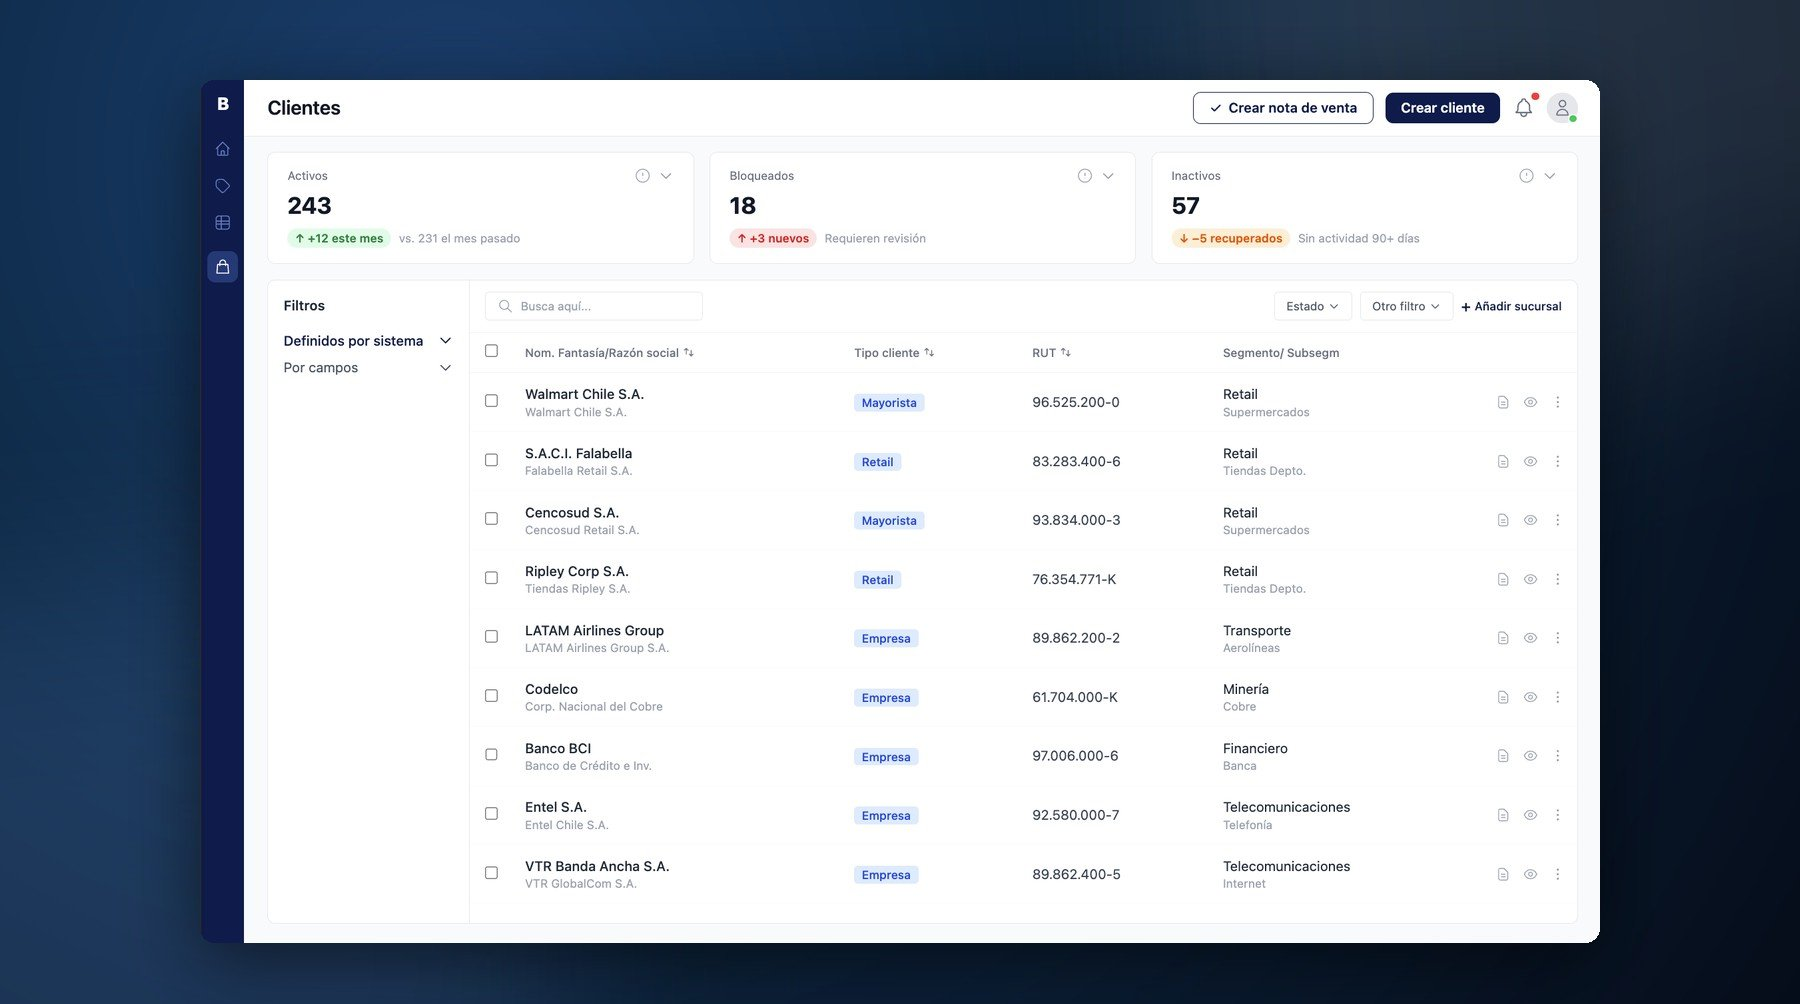
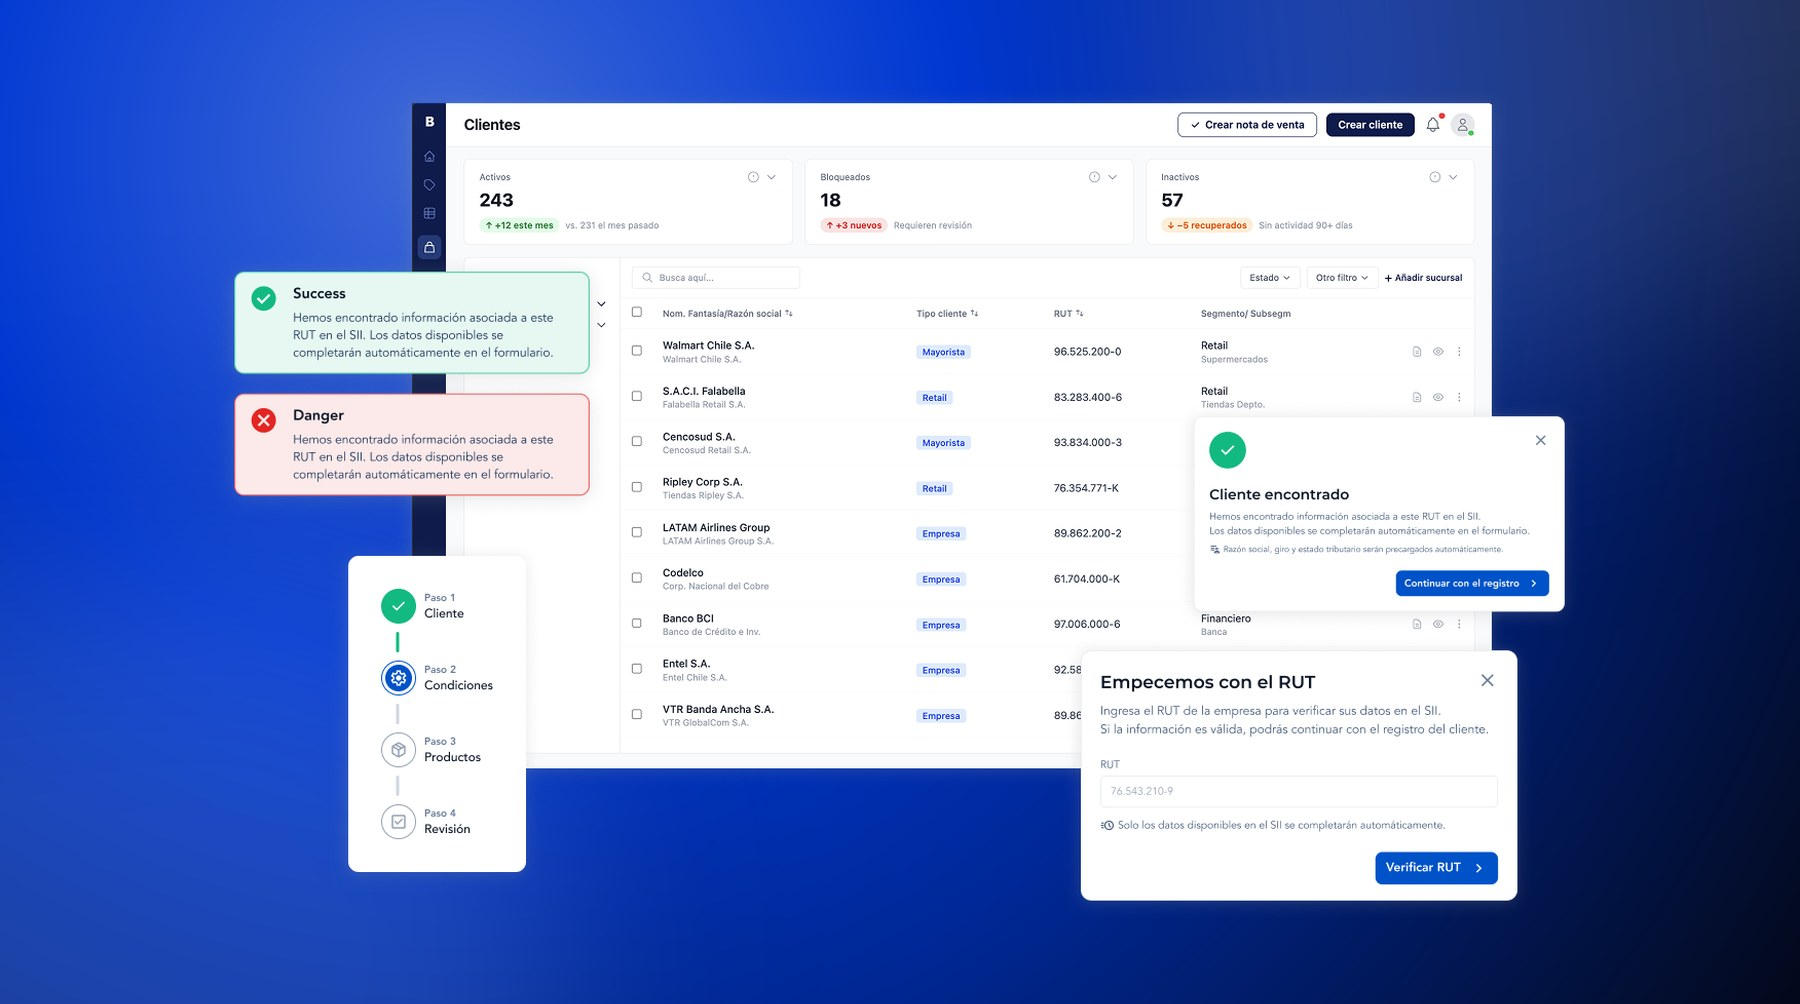
Give Bañados its own vivid blue gradient, distinct from AIEP
Replace the muted navy gradient (too similar to AIEP's) with a vivid
electric blue drawn from Bañados' real brand color, applied to the
case study header, prototype video container, and recomposited cover
image. Darkened slightly afterward per feedback while keeping it
vivid.

diff --git a/src/data/projects.js b/src/data/projects.js
@@ -68,7 +68,7 @@ export const projects = [
     color: "#0E2A47",
     image: projectBanados,
     gradient:
-      "radial-gradient(circle at 82% 8%, rgba(255,255,255,0.10) 0%, rgba(255,255,255,0) 22%), radial-gradient(circle at 12% 88%, rgba(120,170,255,0.16) 0%, rgba(120,170,255,0) 32%), radial-gradient(circle at 25% 15%, #1c3f6e 0%, #0e2a47 38%, #060d1a 100%)",
+      "radial-gradient(circle at 82% 8%, rgba(255,255,255,0.14) 0%, rgba(255,255,255,0) 22%), radial-gradient(circle at 12% 88%, rgba(160,195,255,0.20) 0%, rgba(160,195,255,0) 32%), radial-gradient(circle at 25% 15%, #416bd8 0%, #0038d3 32%, #002896 58%, #04091a 100%)",
     year: "2025",
     role: "UX/UI Designer Freelance",
     company: "Bañados",

diff --git a/src/index.css b/src/index.css
@@ -1556,7 +1556,7 @@ h1, h2, h3, h4 {
 }
 
 .cs-prototype__video-wrap {
-  background: radial-gradient(circle at 25% 15%, #1c3f6e 0%, #0e2a47 38%, #060d1a 100%);
+  background: radial-gradient(circle at 25% 15%, #416bd8 0%, #0038d3 32%, #002896 58%, #04091a 100%);
   padding: 64px;
   border-radius: 0;
 }
